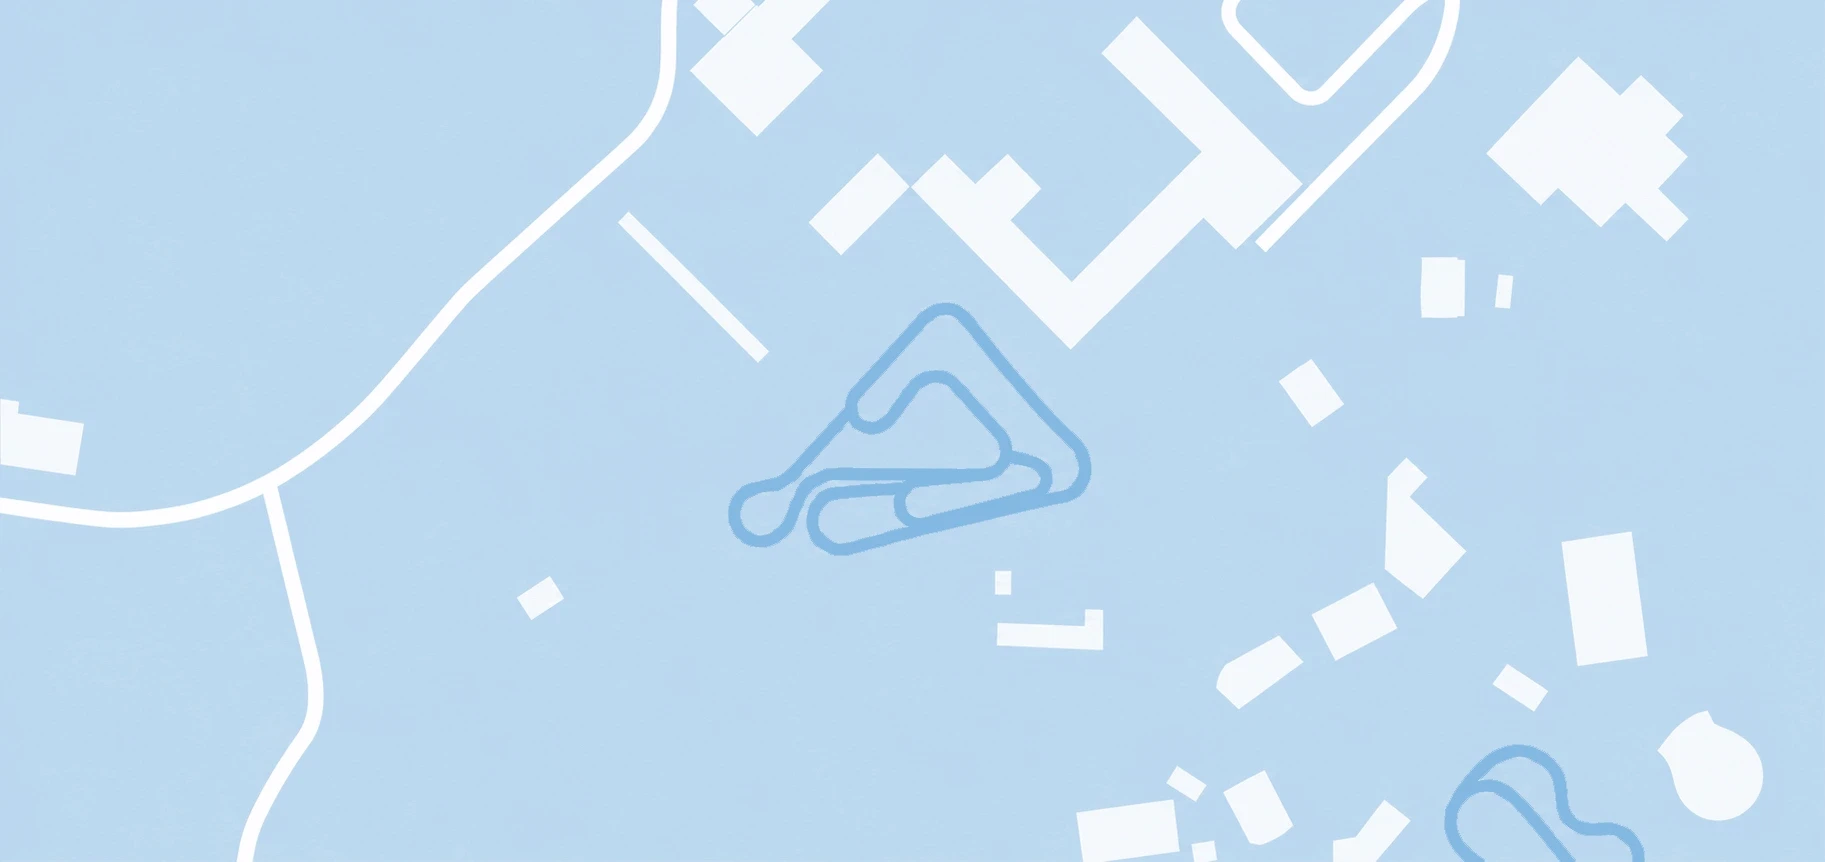
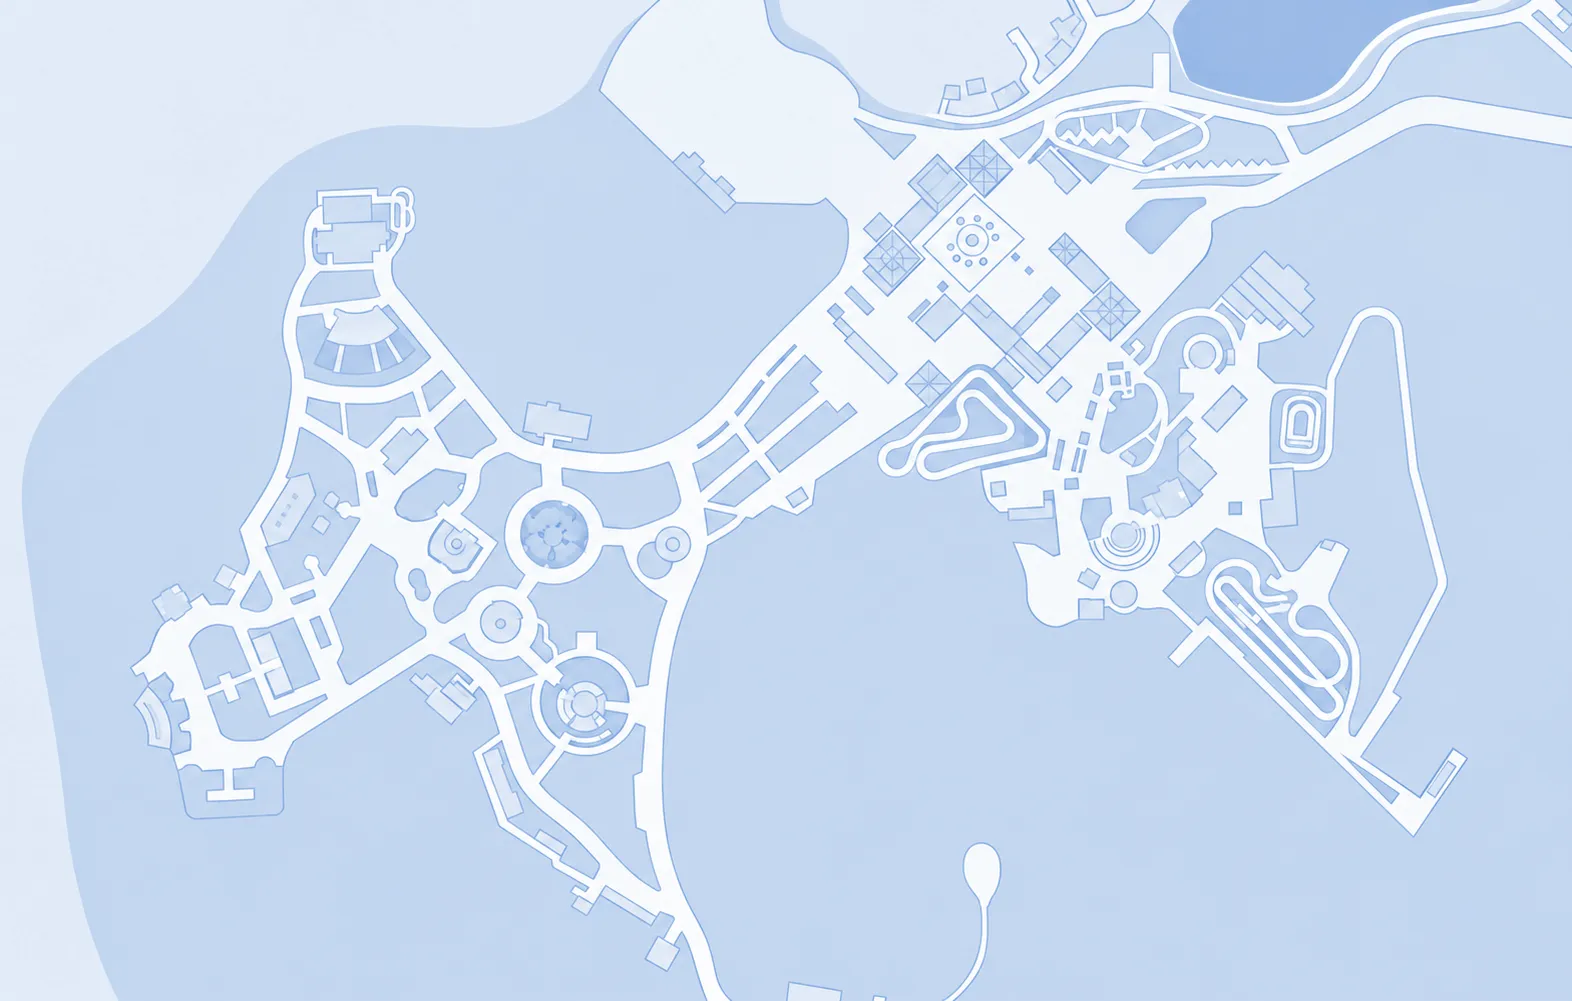
Add files via upload

diff --git a/index.html b/index.html
@@ -53,7 +53,7 @@ if(location.protocol==='file:'||location.hostname.indexOf('github.io')>-1){
   --band:clamp(40px, calc(7.9% + 6.8px), 70px);
   --card-py:30px; --card-px:28px;
   --kick:32px; --lb-h:24px; --lb-px:11px;
-  --img-ratio:62.5%; --map-vis:75.57%;   /* 지도 보이는 폭 = 칸 비율 ÷ 지도 원본 비율 */
+  --img-ratio:62.5%; --map-vis:100%;   /* 지도 보이는 폭 = 칸 비율 ÷ 지도 원본 비율 (최대 100%) */
   --nav-h:70px;
   --gap-head:32px;   /* 타이틀 묶음 ↔ 본문 */
   --gap-blk:28px;    /* 본문 블록 사이 */
@@ -312,42 +312,42 @@ if(location.protocol==='file:'||location.hostname.indexOf('github.io')>-1){
 .contents_div #ucp-sec4 .ucp-h2{ color:#235a92; }   /* 03 타이틀과 같은 푸른 톤 */
 .contents_div .ucp-info{ background:#fff; border-radius:20px; border:2px solid #b5d8f4; overflow:hidden; }   /* 파스텔 블루 보더 */
 .contents_div .ucp-info-map{ border-bottom:1px solid var(--c-line); }   /* 지도: 상하좌우 여백 없이, 아래 100% 실선 */
-.contents_div .ucp-map-in{                                  /* 지도 원본 비율(1825×862) 레이어 — cover처럼 높이 채우고 가운데 기준 */
-  position:absolute; top:0; left:50%; height:100%; aspect-ratio:1825/862;
-  transform:translateX(-50%); container-type:inline-size;
+.contents_div .ucp-map-in{                                  /* 지도 원본 비율(1572×1001) 레이어 — cover처럼 칸을 채우고 가운데 기준 */
+  position:absolute; top:50%; left:50%; width:max(100%, calc(var(--img-ratio) * 1572 / 1001)); aspect-ratio:1572/1001;
+  transform:translate(-50%,-50%); container-type:inline-size;
 }
 .contents_div .ucp-map-lbs li{
   position:absolute; left:var(--x); top:var(--y); transform:translate(-50%,-50%);
-  font-size:max(10px, 1.37cqi); font-weight:600; line-height:1.2; letter-spacing:-0.02em;
+  font-size:max(10px, 1.7cqi); font-weight:600; line-height:1.2; letter-spacing:-0.02em;
   color:#555; text-align:center; white-space:nowrap; pointer-events:none;
   text-shadow:0 0 2px #fff, 1px 1px 0 #fff, -1px -1px 0 #fff, 1px -1px 0 #fff, -1px 1px 0 #fff, 0 1px 0 #fff, 0 -1px 0 #fff, 1px 0 0 #fff, -1px 0 0 #fff;
 }
 .contents_div .ucp-map-ico{                                 /* 장소 아이콘: 이름 위에 */
   position:absolute; left:50%; bottom:100%; margin-bottom:3px;
-  width:max(14px, 1.75cqi); transform:translateX(-50%);
+  width:max(14px, 2.2cqi); transform:translateX(-50%);
   filter:drop-shadow(0 0 1.5px #fff);
 }
 .contents_div .ucp-map-ico svg{ display:block; width:100%; height:auto; }
-.contents_div .ucp-map-scale{                               /* 축척: 보이는 영역 좌측 하단, 막대 길이는 원본 지도 기준 30m */
-  position:absolute; bottom:max(10px, 1.6cqi); left:calc((100% - var(--map-vis)) / 2 + max(12px, 1.8cqi));
-  display:flex; align-items:flex-end; gap:max(4px, .5cqi);
-  font-size:max(10px, 1.1cqi); font-weight:700; line-height:1; color:#333;
+.contents_div .ucp-map-scale{                               /* 축척: 보이는 영역 좌측 하단, 막대 길이는 원본 지도 기준 50m */
+  position:absolute; bottom:max(10px, 2.1cqi); left:calc((100% - var(--map-vis)) / 2 + max(12px, 2.4cqi));
+  display:flex; align-items:flex-end; gap:max(4px, .65cqi);
+  font-size:max(10px, 1.45cqi); font-weight:700; line-height:1; color:#333;
   text-shadow:0 0 2px #fff, 0 0 2px #fff;
 }
 .contents_div .ucp-map-scale i{
-  display:block; width:5.93cqi; height:max(5px, .6cqi);
+  display:block; width:4.6cqi; height:max(5px, .8cqi);
   border:solid #333; border-width:0 1.5px 1.5px; box-shadow:0 1px 0 rgba(255,255,255,.7);
 }
 .contents_div .ucp-map-pin{
   position:absolute; left:var(--x); top:var(--y); z-index:1;
-  width:calc(max(27px, 3.9cqi) * 1.18);   /* 1.5배, 통통한 핀(높이 유지·폭 1.18배) */ transform:translate(-50%,-100%);
+  width:calc(max(27px, 5cqi) * 1.18);   /* 1.5배, 통통한 핀(높이 유지·폭 1.18배) */ transform:translate(-50%,-100%);
   filter:drop-shadow(0 2px 2px rgba(0,0,0,.22));
 }
 .contents_div .ucp-map-pin svg{ display:block; width:100%; height:auto; }
 .contents_div .ucp-map-me{                                 /* 위치 표시 아래 이름 (웹·모바일) */
   display:block; position:absolute; left:var(--x); top:var(--y); z-index:2;
   transform:translate(-50%, .36em); padding:.27em .73em .18em; border-radius:999px;
-  background:#1259bb; color:#fff; font-size:max(11px, 1.6cqi);   /* 핀과 같은 진한 블루 */ font-weight:800; line-height:1.3; white-space:nowrap;
+  background:#1259bb; color:#fff; font-size:max(11px, 2.1cqi);   /* 핀과 같은 진한 블루 */ font-weight:800; line-height:1.3; white-space:nowrap;
   box-shadow:0 1px 3px rgba(0,0,0,.25); pointer-events:none;
 }
 .contents_div .ucp-info-in{ padding:var(--card-py) var(--card-px) 0; }
@@ -421,7 +421,7 @@ if(location.protocol==='file:'||location.hostname.indexOf('github.io')>-1){
 .contents_div .ucp-ht--dot { --in:ucpBub .7s cubic-bezier(.3,1.6,.4,1) .95s;  --loop:ucpBob 3.2s ease-in-out 1.7s infinite alternate; }
 .contents_div .ucp-ht--star{ --in:ucpSpin .8s cubic-bezier(.3,1.5,.4,1) 1.05s; --loop:ucpTwinkle 4.4s ease-in-out 1.85s infinite; }
 .contents_div .ucp-ht--fish{ --in:ucpSwimIn .9s cubic-bezier(.22,1.2,.36,1) 1.15s; --loop:ucpSwim 3.6s ease-in-out 2.1s infinite alternate; }
-.contents_div .ucp-ht--peng{ --in:ucpJump .9s cubic-bezier(.3,1.5,.45,1) .95s; --loop:ucpWave 3.2s ease-in-out 1.85s infinite; }
+.contents_div .ucp-ht--peng{ --in:ucpJump .9s cubic-bezier(.3,1.5,.45,1) .95s; --loop:ucpWave 3.2s linear 1.85s infinite; }
 @keyframes ucpDrop{ from{ opacity:0; transform:translateY(-2%); } to{ opacity:1; transform:none; } }
 @keyframes ucpRise{ from{ opacity:0; transform:translateY(4%); } to{ opacity:1; transform:none; } }
 @keyframes ucpPop{ 0%{ opacity:0; transform:scale(.6); } 50%{ opacity:1; } 100%{ opacity:1; transform:none; } }
@@ -430,9 +430,9 @@ if(location.protocol==='file:'||location.hostname.indexOf('github.io')>-1){
 @keyframes ucpSwimIn{ from{ opacity:0; transform:translateX(6%); } to{ opacity:1; transform:none; } }
 @keyframes ucpJump{ 0%{ opacity:0; transform:translateY(12%); } 60%{ opacity:1; } 100%{ opacity:1; transform:none; } }
 @keyframes ucpBob{ from{ opacity:1; transform:translateY(0); } to{ opacity:1; transform:translateY(-1.6%); } }
-@keyframes ucpTwinkle{ 0%, 100%{ opacity:1; transform:rotate(0deg) scale(1); } 25%{ opacity:1; transform:rotate(-10deg) scale(1); } 75%{ opacity:1; transform:rotate(12deg) scale(1.12); } }
+@keyframes ucpTwinkle{ 0%{ opacity:1; transform:rotate(0deg) scale(1); animation-timing-function:cubic-bezier(.61,1,.88,1); } 25%{ opacity:1; transform:rotate(-10deg) scale(1); animation-timing-function:cubic-bezier(.12,0,.39,0); } 50%{ opacity:1; transform:rotate(0deg) scale(1); animation-timing-function:cubic-bezier(.61,1,.88,1); } 75%{ opacity:1; transform:rotate(12deg) scale(1.12); animation-timing-function:cubic-bezier(.12,0,.39,0); } 100%{ opacity:1; transform:rotate(0deg) scale(1); } }
 @keyframes ucpSwim{ 0%{ opacity:1; transform:translate(0,0) rotate(0); } 50%{ opacity:1; transform:translate(-1.2%,-.8%) rotate(-5deg); } 100%{ opacity:1; transform:translate(-2.2%,.3%) rotate(3deg); } }
-@keyframes ucpWave{ 0%, 100%{ opacity:1; transform:rotate(0deg); } 25%{ opacity:1; transform:rotate(-4deg); } 75%{ opacity:1; transform:rotate(4deg); } }   /* 0도에서 시작·끝 → 등장 직후 튐 없음 */
+@keyframes ucpWave{ 0%{ opacity:1; transform:rotate(0deg); animation-timing-function:cubic-bezier(.61,1,.88,1); } 25%{ opacity:1; transform:rotate(-4deg); animation-timing-function:cubic-bezier(.12,0,.39,0); } 50%{ opacity:1; transform:rotate(0deg); animation-timing-function:cubic-bezier(.61,1,.88,1); } 75%{ opacity:1; transform:rotate(4deg); animation-timing-function:cubic-bezier(.12,0,.39,0); } 100%{ opacity:1; transform:rotate(0deg); } }   /* 0도에서 시작·끝, 끝에서만 느려짐 (가운데 멈칫 없음) */
 .contents_div .ucp-js .ucp-hero-photo img{                 /* 처음엔 흐리고 확대된 상태로 보임 */
   opacity:.55; filter:blur(10px); transform:scale(1.06); transform-origin:50% 45%;
 }
@@ -462,13 +462,13 @@ if(location.protocol==='file:'||location.hostname.indexOf('github.io')>-1){
 .contents_div .ucp-bf--m{ --bd:.15s; --bl:ucpBfHello 2.4s ease-in-out; }     /* 손 흔드는 아이: 통통 */
 .contents_div .ucp-bf--r{ --bd:.3s;  --bl:ucpBfSway 3.2s ease-in-out; }      /* 뒷모습: 엉덩이 살랑 */
 @keyframes ucpBfIn{ 0%{ opacity:0; transform:translateY(4%) scale(.85); } 100%{ opacity:1; transform:none; } }
-@keyframes ucpBfWaddle{ 0%, 100%{ opacity:1; transform:rotate(0deg); } 25%{ opacity:1; transform:rotate(-1deg); } 75%{ opacity:1; transform:rotate(1deg); } }
+@keyframes ucpBfWaddle{ 0%{ opacity:1; transform:rotate(0deg); animation-timing-function:cubic-bezier(.61,1,.88,1); } 25%{ opacity:1; transform:rotate(-1deg); animation-timing-function:cubic-bezier(.12,0,.39,0); } 50%{ opacity:1; transform:rotate(0deg); animation-timing-function:cubic-bezier(.61,1,.88,1); } 75%{ opacity:1; transform:rotate(1deg); animation-timing-function:cubic-bezier(.12,0,.39,0); } 100%{ opacity:1; transform:rotate(0deg); } }
 @keyframes ucpBfHello{
   0%, 55%, 100%{ opacity:1; transform:translateY(0) rotate(0deg); }
   15%{ opacity:1; transform:translateY(-2%) rotate(1.2deg); } 27%{ opacity:1; transform:translateY(0) rotate(0deg); }
   39%{ opacity:1; transform:translateY(-1.2%) rotate(-.8deg); }
 }
-@keyframes ucpBfSway{ 0%, 100%{ opacity:1; transform:rotate(0deg) scale(1); } 25%{ opacity:1; transform:rotate(1.5deg) scale(1.01); } 75%{ opacity:1; transform:rotate(-1.5deg) scale(1.01); } }
+@keyframes ucpBfSway{ 0%{ opacity:1; transform:rotate(0deg) scale(1); animation-timing-function:cubic-bezier(.61,1,.88,1); } 25%{ opacity:1; transform:rotate(1.5deg) scale(1.01); animation-timing-function:cubic-bezier(.12,0,.39,0); } 50%{ opacity:1; transform:rotate(0deg) scale(1); animation-timing-function:cubic-bezier(.61,1,.88,1); } 75%{ opacity:1; transform:rotate(-1.5deg) scale(1.01); animation-timing-function:cubic-bezier(.12,0,.39,0); } 100%{ opacity:1; transform:rotate(0deg) scale(1); } }
 
 /* 스티커·포인트 요소 — 크기·각도는 개별 속성(scale·rotate·translate)으로 움직여 기존 transform 위치를 건드리지 않음 */
 .contents_div .ucp-js .ucp-stamp-wrap,
@@ -482,7 +482,8 @@ if(location.protocol==='file:'||location.hostname.indexOf('github.io')>-1){
   animation:ucpSlide .9s cubic-bezier(.22,.7,.3,1) calc(var(--rv-d, 0s) + .55s) forwards, ucpLoveFloat 3.2s ease-in-out calc(var(--rv-d, 0s) + 1.45s) infinite;   /* 배로 미끄러져 들어와 멈춤 → 둥둥 */
 }
 .contents_div .ucp-js .ucp-h2.is-in .ucp-h2-ico img{          /* 04 얼굴 아이콘: 뿅 나타나 갸웃갸웃 */
-  animation:ucpPeekIn .6s cubic-bezier(.3,1.6,.45,1) calc(var(--rv-d, 0s) + .4s) forwards, ucpTilt 5s ease-in-out calc(var(--rv-d, 0s) + 1s) infinite;
+  transform-origin:50% 40%;   /* 위로 올려 둔 위치 기준 얼굴 아래쪽 = 회전 축 */
+  animation:ucpPeekIn .6s cubic-bezier(.3,1.6,.45,1) calc(var(--rv-d, 0s) + .4s) forwards, ucpTilt 5s linear calc(var(--rv-d, 0s) + 1s) infinite;   /* 등장 끝 0도에서 시작, 끝에서만 느려지고 가운데는 멈춤 없이 통과 */
 }
 .contents_div .ucp-map-pin{ transform-origin:0 0; }          /* 기준점 = 핀 끝 (transform 이동 전 좌표) */
 .contents_div .ucp-js .ucp-info.is-in .ucp-map-pin{           /* 지도 핀: 뿅뿅 – 쉬고 – 뿅뿅 */
@@ -493,7 +494,7 @@ if(location.protocol==='file:'||location.hostname.indexOf('github.io')>-1){
 @keyframes ucpPeekIn{ 0%{ opacity:0; scale:.4; translate:0 30%; } 100%{ opacity:1; scale:1; translate:0 0; } }
 @keyframes ucpLoveFloat{ 0%, 100%{ opacity:1; translate:0 0; } 50%{ opacity:1; translate:0 -3%; } }
 @keyframes ucpSlide{ 0%{ opacity:0; translate:45% 0; rotate:4deg; } 30%{ opacity:1; } 100%{ opacity:1; translate:0 0; rotate:0deg; } }
-@keyframes ucpTilt{ 0%, 100%{ opacity:1; rotate:0deg; } 25%{ opacity:1; rotate:-7deg; } 75%{ opacity:1; rotate:7deg; } }
+@keyframes ucpTilt{ 0%{ rotate:0deg; animation-timing-function:cubic-bezier(.61,1,.88,1); } 25%{ rotate:7deg; animation-timing-function:cubic-bezier(.12,0,.39,0); } 50%{ rotate:0deg; animation-timing-function:cubic-bezier(.61,1,.88,1); } 75%{ rotate:-7deg; animation-timing-function:cubic-bezier(.12,0,.39,0); } 100%{ rotate:0deg; } }
 @keyframes ucpHop{                                          /* 높이·찌그러짐 모두 이전의 절반 */
   0%{ translate:0 0; scale:1; }
   8%{ translate:0 -17%; scale:.975 1.03; }
@@ -525,7 +526,7 @@ if(location.protocol==='file:'||location.hostname.indexOf('github.io')>-1){
     --gut:22px;
     --card-py:22px; --card-px:17px;
     --kick:22px; --lb-h:21px; --lb-px:9px;
-    --img-ratio:75%; --map-vis:62.98%;
+    --img-ratio:75%; --map-vis:84.9%;
     --nav-h:48px;
     --gap-head:24px; --gap-blk:22px;
   }
@@ -738,30 +739,23 @@ if(location.protocol==='file:'||location.hostname.indexOf('github.io')>-1){
           <div class="ucp-map-in">
             <img src="img/지도.webp" alt="광주 북구 우치로 677 우치동물원 위치 지도" loading="lazy" decoding="async">
             <ul class="ucp-map-lbs" aria-hidden="true">
-            <li style="--x:51.06%;--y:7.54%">시계탑</li>
-            <li style="--x:67.74%;--y:19.75%">의무실</li>
-            <li class="ucp-map-up" style="--x:36.83%;--y:31.78%">전기차충전소</li>
-            <li style="--x:54.7%;--y:31.78%">이마트24</li>
-            <li class="ucp-map-sub" style="--x:62.07%;--y:35.55%">토토로분식</li>
-            <li class="ucp-map-sub" style="--x:78.75%;--y:33.39%">광주랜드<br>자이로드롭</li>
-            <li class="ucp-map-sub" style="--x:80.02%;--y:40.75%">무지개극장</li>
-            <li style="--x:72.14%;--y:45.6%">회전목마</li>
-            <li class="ucp-map-sub" style="--x:81.12%;--y:47.4%">바이킹</li>
-            <li style="--x:48.86%;--y:53.86%">씽씽보트</li>
-            <li class="ucp-map-sub" style="--x:70.28%;--y:51.53%">꼬마비행기</li>
-            <li style="--x:66.81%;--y:64.99%">개구리점프</li>
-            <li class="ucp-map-sub" style="--x:76.63%;--y:66.25%">드롭탑</li>
-            <li style="--x:55.12%;--y:66.79%">타가디스코</li>
-            <li class="ucp-map-sub" style="--x:74.09%;--y:71.81%">미니셔틀</li>
-            <li style="--x:69.94%;--y:78.99%">스타워즈</li>
-            <li style="--x:38.1%;--y:83.12%"><span class="ucp-map-ico"><svg viewBox="0 0 20 20"><circle cx="10" cy="10" r="10" fill="#5e9c4f"/><path d="M10 3.6 5.6 10h2.3l-2.9 4h4.1v2.6h1.8V14H15l-2.9-4h2.3z" fill="#fff"/></svg></span>우치공원</li>
-            <li class="ucp-map-sub" style="--x:68.93%;--y:94.08%">카오스</li>
-            <li class="ucp-map-sub" style="--x:77.05%;--y:93.36%">야외공연장</li>
-            <li class="ucp-map-sub" style="--x:61.73%;--y:96.41%">짝꿍놀이터</li>
+            <li style="--x:52.67%;--y:16.68%">롤러스케이트장</li>
+            <li class="ucp-map-sub" style="--x:66.28%;--y:19.28%">드롭탑</li>
+            <li style="--x:22.58%;--y:26.97%"><span class="ucp-map-ico"><svg viewBox="0 0 20 20"><circle cx="10" cy="10" r="10" fill="#5e9c4f"/><path d="M10 3.6 5.6 10h2.3l-2.9 4h4.1v2.6h1.8V14H15l-2.9-4h2.3z" fill="#fff"/></svg></span>파충류관&amp;<br>식물원</li>
+            <li style="--x:74.81%;--y:28.37%">패밀리열차</li>
+            <li class="ucp-map-sub" style="--x:64.5%;--y:32.97%">이마트24</li>
+            <li class="ucp-map-sub" style="--x:81.62%;--y:37.66%">날으는그네</li>
+            <li style="--x:57.76%;--y:38.06%"><span class="ucp-map-ico"><svg viewBox="0 0 20 20"><circle cx="10" cy="10" r="10" fill="#5e9c4f"/><path d="M10 3.6 5.6 10h2.3l-2.9 4h4.1v2.6h1.8V14H15l-2.9-4h2.3z" fill="#fff"/></svg></span>우치공원</li>
+            <li class="ucp-map-sub" style="--x:72.71%;--y:42.16%">패밀리목마</li>
+            <li class="ucp-map-sub" style="--x:64.44%;--y:42.46%">씽씽보트</li>
+            <li style="--x:79.07%;--y:47.75%">광주<br>패밀리랜드</li>
+            <li class="ucp-map-sub" style="--x:70.17%;--y:49.85%">개구리점프</li>
+            <li style="--x:84.61%;--y:59.44%">슈퍼스크린</li>
+            <li class="ucp-map-sub" style="--x:74.3%;--y:62.04%">야외공연장</li>
             </ul>
-            <span class="ucp-map-scale" aria-hidden="true"><i></i>30m</span>
-            <span class="ucp-map-pin" aria-hidden="true" style="--x:36.66%;--y:45.6%"><svg viewBox="0 0 30 36"><path d="M15 35C11 30.5 2 22 2 14a13 13 0 0 1 26 0c0 8-9 16.5-13 21z" fill="#1259bb"/><circle cx="15" cy="14" r="5.6" fill="#fff"/></svg></span>
-            <span class="ucp-map-me" aria-hidden="true" style="--x:36.66%;--y:45.6%">우치동물원</span>
+            <span class="ucp-map-scale" aria-hidden="true"><i></i>50m</span>
+            <span class="ucp-map-pin" aria-hidden="true" style="--x:23.85%;--y:60.44%"><svg viewBox="0 0 30 36"><path d="M15 35C11 30.5 2 22 2 14a13 13 0 0 1 26 0c0 8-9 16.5-13 21z" fill="#1259bb"/><circle cx="15" cy="14" r="5.6" fill="#fff"/></svg></span>
+            <span class="ucp-map-me" aria-hidden="true" style="--x:23.85%;--y:60.44%">우치동물원</span>
           </div>
         </div>
         <div class="ucp-info-in">
